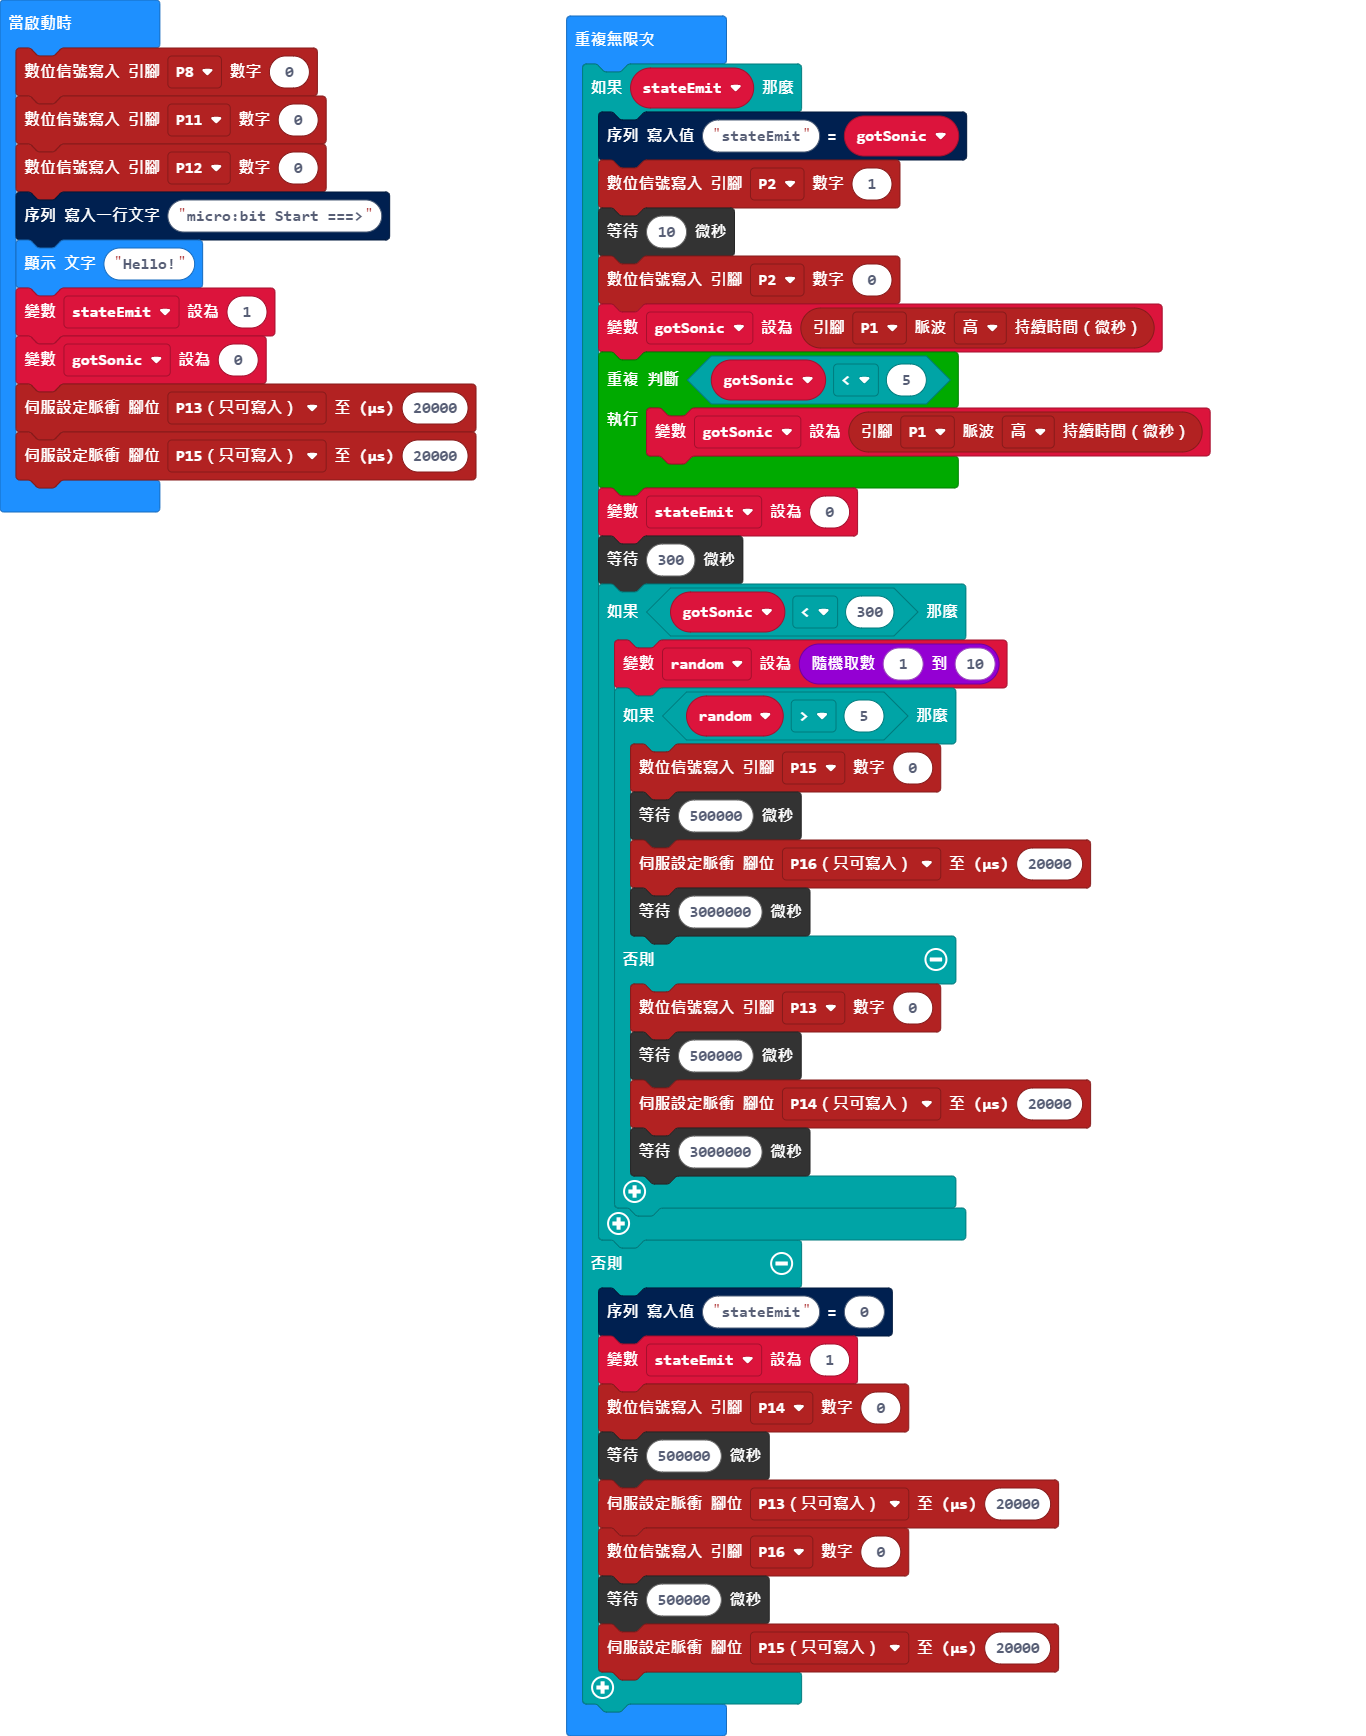
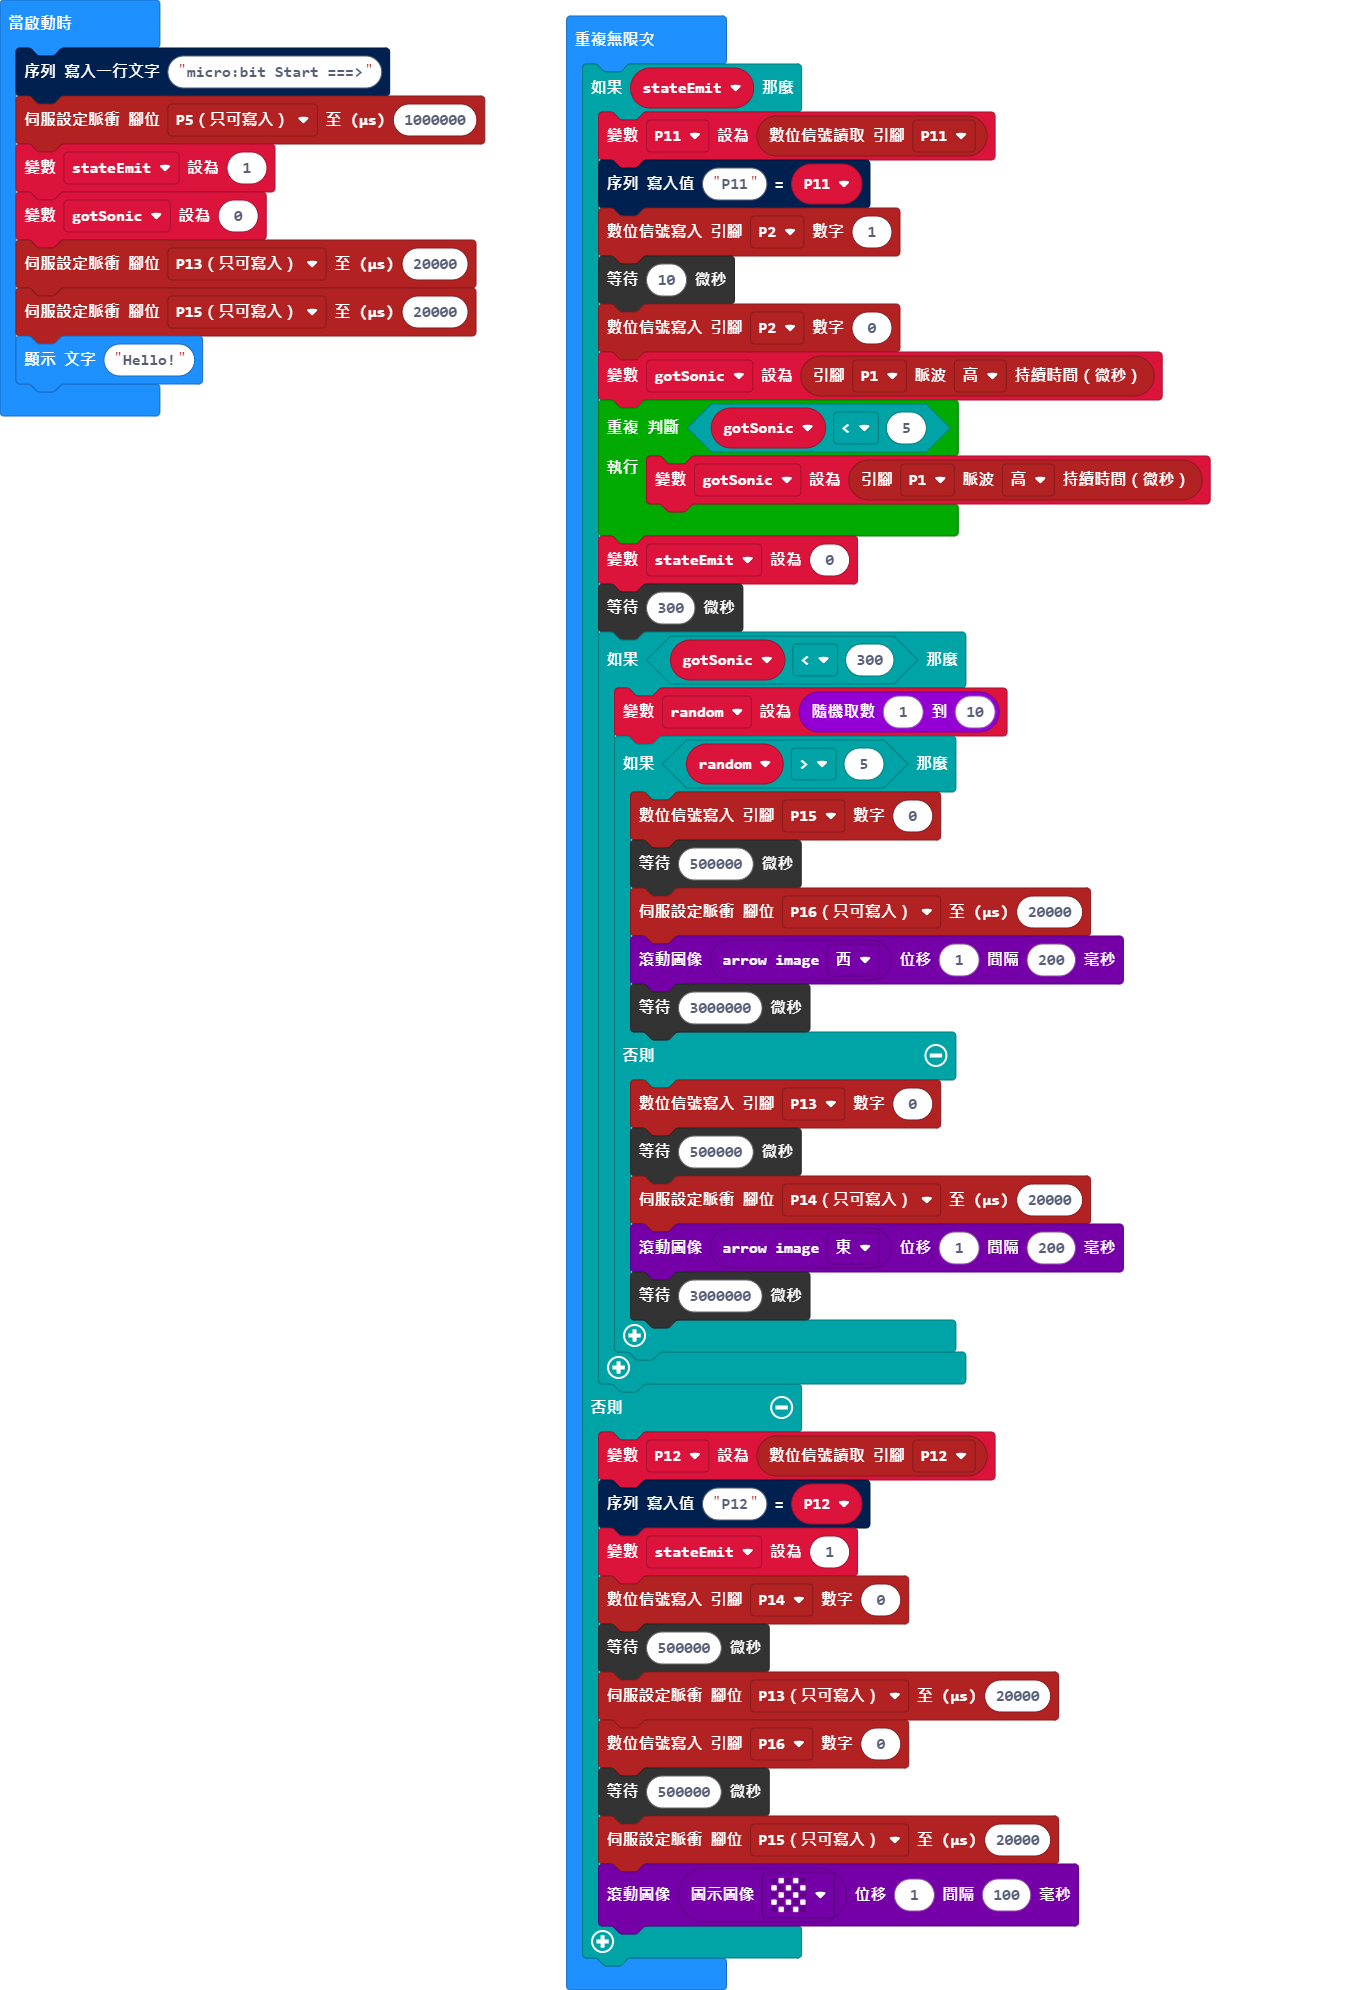
Modify LED Display Pattern

Changed region(s): [[0.3997, 0.0, 0.8917, 0.9954], [0.0, 0.0, 0.369, 0.3111]]

diff --git a/main.ts b/main.ts
@@ -1,16 +1,17 @@
+let P12 = 0
 let random = 0
-pins.digitalWritePin(DigitalPin.P8, 0)
-pins.digitalWritePin(DigitalPin.P11, 0)
-pins.digitalWritePin(DigitalPin.P12, 0)
+let P11 = 0
 serial.writeLine("micro:bit Start ===>")
-basic.showString("Hello!")
+pins.servoSetPulse(AnalogPin.P5, 1000000)
 let stateEmit = 1
 let gotSonic = 0
 pins.servoSetPulse(AnalogPin.P13, 20000)
 pins.servoSetPulse(AnalogPin.P15, 20000)
+basic.showString("Hello!")
 basic.forever(function () {
     if (stateEmit) {
-        serial.writeValue("stateEmit", gotSonic)
+        P11 = pins.digitalReadPin(DigitalPin.P11)
+        serial.writeValue("P11", P11)
         pins.digitalWritePin(DigitalPin.P2, 1)
         control.waitMicros(10)
         pins.digitalWritePin(DigitalPin.P2, 0)
@@ -26,16 +27,19 @@ basic.forever(function () {
                 pins.digitalWritePin(DigitalPin.P15, 0)
                 control.waitMicros(500000)
                 pins.servoSetPulse(AnalogPin.P16, 20000)
+                images.arrowImage(ArrowNames.West).scrollImage(1, 200)
                 control.waitMicros(3000000)
             } else {
                 pins.digitalWritePin(DigitalPin.P13, 0)
                 control.waitMicros(500000)
                 pins.servoSetPulse(AnalogPin.P14, 20000)
+                images.arrowImage(ArrowNames.East).scrollImage(1, 200)
                 control.waitMicros(3000000)
             }
         }
     } else {
-        serial.writeValue("stateEmit", 0)
+        P12 = pins.digitalReadPin(DigitalPin.P12)
+        serial.writeValue("P12", P12)
         stateEmit = 1
         pins.digitalWritePin(DigitalPin.P14, 0)
         control.waitMicros(500000)
@@ -43,5 +47,6 @@ basic.forever(function () {
         pins.digitalWritePin(DigitalPin.P16, 0)
         control.waitMicros(500000)
         pins.servoSetPulse(AnalogPin.P15, 20000)
+        images.iconImage(IconNames.Chessboard).scrollImage(1, 100)
     }
 })
